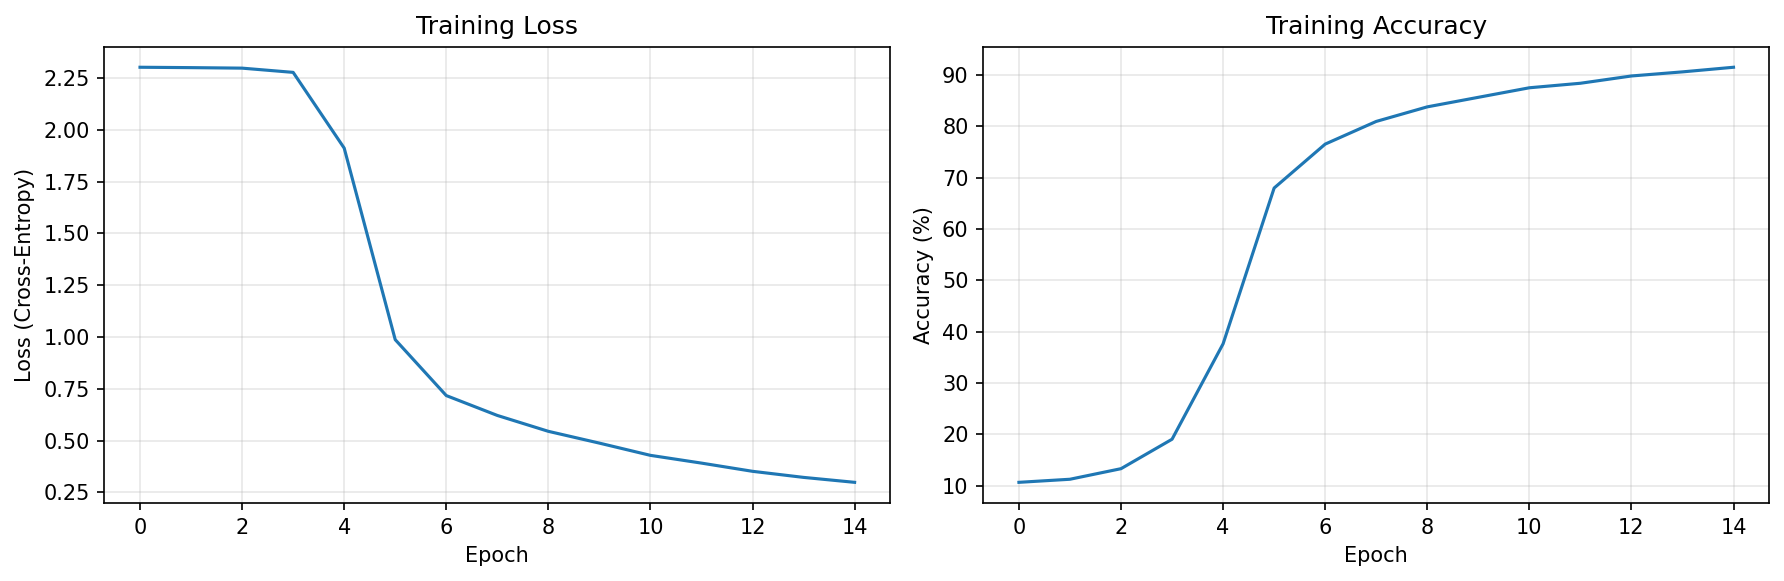
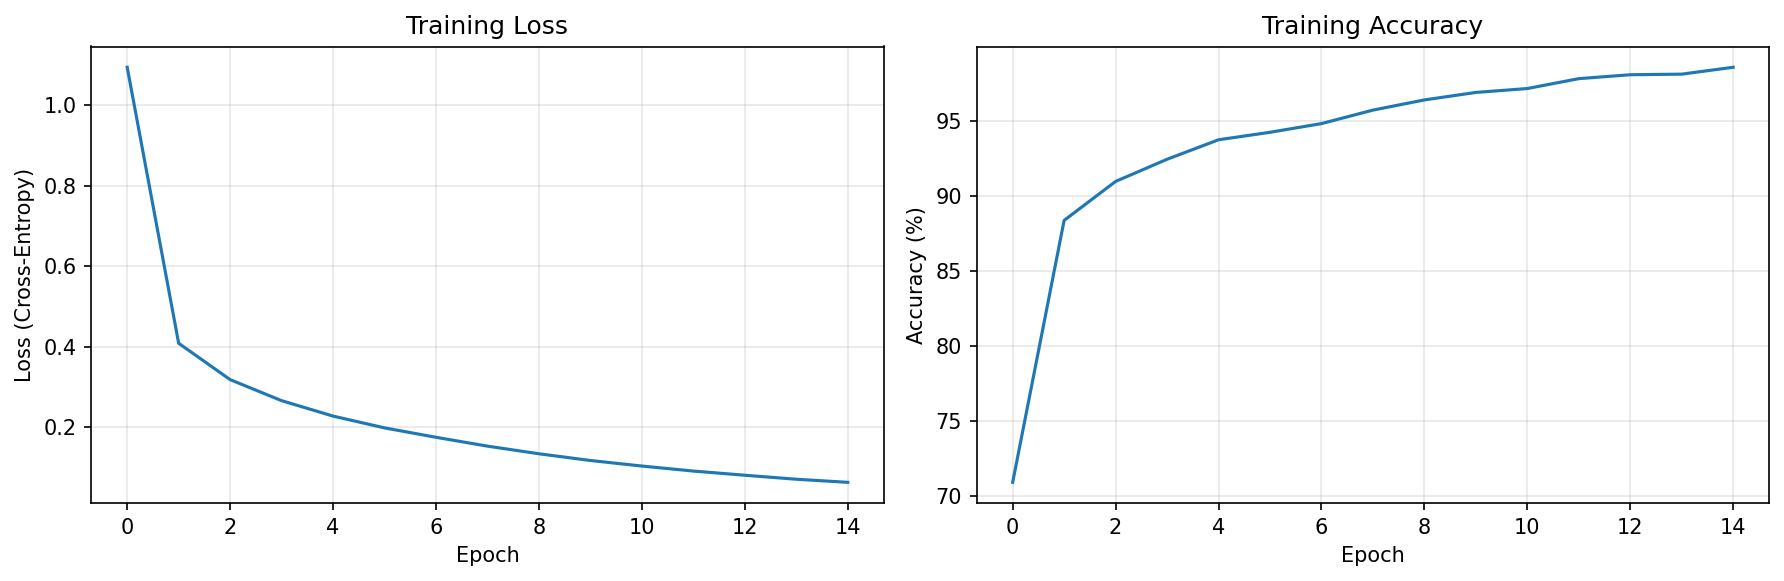
removing neuron and creting neuron vectorization

diff --git a/nn.py b/nn.py
@@ -1,71 +1,6 @@
 import numpy as np 
 import time
 
-class Neuron:
-    """Single neuron with weights, bias, and activation function.
-
-    Detailed explanation:
-    - A neuron computes z = w.x + b where w is weights vector, x is input vector, b is a scalar bias.
-    - The activation function transforms z to produce the neuron's output.
-    - We keep `input`, `z`, and `output` stored on the object so the backward pass can use them.
-
-    Activation functions and their intuition (simple links):
-    - Sigmoid: maps to (0,1). Good for hidden layers. https://en.wikipedia.org/wiki/Sigmoid_function
-    - ReLU: returns 0 for negative inputs and identity for positives; fast learning. https://en.wikipedia.org/wiki/Rectifier_(neural_networks)
-    - Softmax: (Special case handled in Layer class) maps a vector to probabilities summing to 1.
-    """
-
-    def __init__(self, n_inputs, activation='sigmoid'):
-        # Xavier/He initialization for better convergence
-        if activation == 'relu':
-            self.weights = np.random.randn(n_inputs) * np.sqrt(2.0 / n_inputs)
-        else:
-            self.weights = np.random.randn(n_inputs) * np.sqrt(1.0 / n_inputs)
-
-        self.bias = 0
-        self.activation = activation  # activation function name stored as string
-
-        self.input = None  # placeholder to save last input seen by this neuron (used in backprop)
-        self.output = None  # placeholder to save last output of this neuron
-        self.z = None  # placeholder to save last linear combination (w.x + b)
-
-    def activate(self, z):
-        # Apply the chosen activation function to the pre-activation value z.
-        # NOTE: Softmax is a special case applied at the LAYER level, not individual neuron level.
-        # So if self.activation is 'softmax', we pass z through (linear) and let Layer handle it.
-        
-        if self.activation == 'sigmoid':
-            return 1 / (1 + np.exp(-np.clip(z, -500, 500)))
-        elif self.activation == 'tanh':
-            return np.tanh(z)
-        elif self.activation == 'relu':
-            return np.maximum(0, z)
-        elif self.activation == 'softmax':
-            return z  # Return linear z; Layer.forward will calculate the actual softmax probability
-        else:
-            return z
-
-    def activate_derivative(self, z):
-        # Return derivative of the activation function evaluated at z; used in backpropagation.
-        # Note: Softmax derivative is handled specially in NeuralNetwork.backward.
-        if self.activation == 'sigmoid':
-            s = 1 / (1 + np.exp(-np.clip(z, -500, 500)))
-            return s * (1 - s)
-        elif self.activation == 'tanh':
-            return 1 - np.tanh(z) ** 2
-        elif self.activation == 'relu':
-            return (z > 0).astype(float)
-        else:
-            return 1
-
-    def forward(self, inputs):
-        # Compute the neuron's forward pass for a single input vector.
-        self.input = inputs  # save input for gradient computation in backward pass
-        self.z = np.dot(self.weights, inputs) + self.bias  # linear combination w.x + b
-        self.output = self.activate(self.z)  # apply activation function
-        return self.output  # return scalar output for this neuron
-
-
 class Layer:
     """Layer of neurons: container that holds multiple Neuron objects.
 
@@ -75,30 +10,31 @@ class Layer:
     """
 
     def __init__(self, n_inputs, n_neurons, activation='sigmoid'):
-        self.neurons = [Neuron(n_inputs, activation) for _ in range(n_neurons)]
-        self.n_neurons = n_neurons
+        # Xavier/He initialization for better convergence
+        if activation == 'relu':
+            self.weights = np.random.randn(n_inputs, n_neurons) * np.sqrt(2.0 / n_inputs)
+        else:
+            self.weights = np.random.randn(n_inputs, n_neurons) * np.sqrt(1.0 / n_inputs)
+        self.bias = np.zeros((1, n_neurons))
         self.activation = activation
         self.output = None  # will hold the output array after forward pass
 
     def forward(self, inputs):
-        # 1. Calculate individual neuron outputs (or raw z if softmax)
-        raw_outputs = np.array([neuron.forward(inputs) for neuron in self.neurons])
+        # 1. Calculate linear combination (z = X*W + b) and store it
+        z = np.dot(inputs, self.weights) + self.bias
         
-        # 2. Apply Softmax logic if this is the output layer
+        # 2. Apply activation function
         if self.activation == 'softmax':
-            # Collect all 'z' values (linear outputs) from the neurons
-            z_values = np.array([n.z for n in self.neurons])
-            
             # Softmax Formula: e^z_i / sum(e^z_j)
             # Numeric Stability Trick: subtract max(z) to prevent e^z becoming infinite
-            exp_values = np.exp(z_values - np.max(z_values)) 
-            self.output = exp_values / np.sum(exp_values)
-            
-            # CRITICAL: Update the individual neurons with their new softmax probability output
-            for i, neuron in enumerate(self.neurons):
-                neuron.output = self.output[i]
+            exp_values = np.exp(z - np.max(z, axis=-1, keepdims=True))
+            self.output = exp_values / np.sum(exp_values, axis=-1, keepdims=True)
+        elif self.activation == 'relu':
+            self.output = np.maximum(0, z)
+        elif self.activation == 'sigmoid':
+            self.output = 1 / (1 + np.exp(-z))
         else:
-            self.output = raw_outputs
+            self.output = z  # linear activation
 
         return self.output
 
@@ -138,59 +74,54 @@ class NeuralNetwork:
         Calculates gradients in a SINGLE backward pass.
         Merges error calculation and gradient computation for efficiency.
         """
-        # 1. Forward pass to ensure current state is fresh
-        self.forward(inputs)
-        network_grads = [None] * self.n_layers
+        # Forward pass is assumed to have been called already
+        # (it's called in train() before backward())
         
-        # We need to store the errors of the "next" layer (which we process first because we go backwards)
-        # to calculate the errors of the current layer.
-        next_layer_errors = None
+        network_grads = []
+        
+        # Store errors for backpropagation
+        next_layer_error = None
 
         # --- Single Loop: Iterate from Output Layer down to Input Layer ---
         for l in range(self.n_layers - 1, -1, -1):
             layer = self.layers[l]
-            layer_errors = []
 
             # --- A. Calculate Error (Delta) for this layer ---
             if l == self.n_layers - 1:
                 # Output Layer (Softmax + CrossEntropy case)
-                for i, neuron in enumerate(layer.neurons):
-                    error = neuron.output - targets[i]
-                    layer_errors.append(error)
+                # The derivative of softmax + cross-entropy simplifies to: output - target
+                error = layer.output - targets
             else:
-                # Hidden Layer
-                next_layer = self.layers[l+1]
-                for i, neuron in enumerate(layer.neurons):
-                    error = 0.0
-                    # Aggregate error from the next layer (which we already processed)
-                    for j, next_neuron in enumerate(next_layer.neurons):
-                        error += next_layer_errors[j] * next_neuron.weights[i]
-                    
-                    # Multiply by derivative
-                    error *= neuron.activate_derivative(neuron.z)
-                    layer_errors.append(error)
-            
-            # Convert to numpy array for the next iteration to use easily
-            layer_errors = np.array(layer_errors)
+                # Hidden Layer: backpropagate error from next layer
+                next_layer = self.layers[l + 1]
+                error = np.dot(next_layer_error, next_layer.weights.T)
+                
+                # Apply activation derivative
+                if layer.activation == 'relu':
+                    error = error * (layer.output > 0)  # ReLU derivative
+                elif layer.activation == 'sigmoid':
+                    sigmoid_deriv = layer.output * (1 - layer.output)
+                    error = error * sigmoid_deriv
             
             # --- B. Compute Gradients IMMEDIATELY ---
             # Input to this layer is either network input (if l=0) or prev layer output
-            layer_input = inputs if l == 0 else self.layers[l-1].output
+            if l == 0:
+                layer_input = inputs.reshape(1, -1)  # Ensure 2D
+            else:
+                layer_input = self.layers[l-1].output.reshape(1, -1)
             
-            layer_grads = []
-            for i, neuron in enumerate(layer.neurons):
-                # Gradient w.r.t Weight
-                w_grad = layer_errors[i] * layer_input
-                # Gradient w.r.t Bias
-                b_grad = layer_errors[i]
-                
-                layer_grads.append((w_grad, b_grad))
+            # Gradient w.r.t Weight: outer product of input and error
+            # Shape: (n_inputs, 1) @ (1, n_neurons) = (n_inputs, n_neurons)
+            w_grad = np.dot(layer_input.T, error.reshape(1, -1))
             
-            # Store gradients for this layer
-            network_grads[l] = layer_grads
+            # Gradient w.r.t Bias: just the error
+            b_grad = error.reshape(1, -1)
             
-            # Update 'next_layer_errors' to be the current ones, for the next iteration (l-1)
-            next_layer_errors = layer_errors
+            # Store gradients for this layer (insert at beginning to maintain order)
+            network_grads.insert(0, (w_grad, b_grad))
+            
+            # Update error for next iteration (going backwards)
+            next_layer_error = error
 
         return network_grads
 
@@ -199,17 +130,13 @@ class NeuralNetwork:
         Updates weights and biases using the averaged gradients from the batch.
         """
         for l, layer in enumerate(self.layers):
-            for i, neuron in enumerate(layer.neurons):
-                # Get sum of gradients for this neuron
-                sum_w_grad, sum_b_grad = accumulated_grads[l][i]
-                
-                # Average the gradients
-                avg_w_grad = sum_w_grad / batch_size
-                avg_b_grad = sum_b_grad / batch_size
-
-                # Update weights and bias
-                neuron.weights -= learning_rate * avg_w_grad
-                neuron.bias -= learning_rate * avg_b_grad
+            sum_w_grad, sum_b_grad = accumulated_grads[l]
+            # Average the gradients
+            avg_w_grad = sum_w_grad / batch_size
+            avg_b_grad = sum_b_grad / batch_size
+            # Update weights and bias
+            layer.weights -= learning_rate * avg_w_grad
+            layer.bias -= learning_rate * avg_b_grad
 
     def train(self, X, y, epochs=10, learning_rate=0.1, batch_size=32, X_val=None, y_val=None, verbose=True):
         """
@@ -236,35 +163,31 @@ class NeuralNetwork:
                 current_batch_size = len(X_batch) # Handle last batch if smaller
 
                 # Initialize accumulator for gradients for this batch
-                # Structure matches 'network_grads' from backward()
-                # We need zeros of correct shape. 
-                # Helper structure: accumulator[layer][neuron] = [w_grad_sum, b_grad_sum]
-                batch_accumulated_grads = []
-                for layer in self.layers:
-                    layer_acc = []
-                    for neuron in layer.neurons:
-                        layer_acc.append([np.zeros_like(neuron.weights), 0.0])
-                    batch_accumulated_grads.append(layer_acc)
+                batch_accumulated_grads = [
+                    (np.zeros_like(layer.weights), np.zeros_like(layer.bias))
+                    for layer in self.layers
+                ]
 
                 # Process samples in batch
                 for j in range(current_batch_size):
                     inputs = X_batch[j]
                     targets = y_batch[j]
 
+                    # Forward pass
+                    output = self.forward(inputs)
+
                     # 1. Get gradients for single sample
                     sample_grads = self.backward(inputs, targets)
 
                     # 2. Accumulate gradients
                     for l in range(len(self.layers)):
-                        for n in range(len(self.layers[l].neurons)):
-                            w_g, b_g = sample_grads[l][n]
-                            batch_accumulated_grads[l][n][0] += w_g
-                            batch_accumulated_grads[l][n][1] += b_g
+                        w_g, b_g = sample_grads[l]
+                        batch_accumulated_grads[l] = (
+                            batch_accumulated_grads[l][0] + w_g,
+                            batch_accumulated_grads[l][1] + b_g
+                        )
 
-                    # Logging (Forward pass logic for loss tracking)
-                    # Note: We rely on the forward pass inside backward() usually, 
-                    # but we need the output here for stats.
-                    output = self.layers[-1].output 
+                    # Track loss and accuracy
                     epsilon = 1e-9
                     loss = -np.sum(targets * np.log(output + epsilon))
                     total_loss += loss

diff --git a/mnist.py b/mnist.py
@@ -94,7 +94,7 @@ def main():
     print("=" * 70)
 
     X_train, y_train, X_test, y_test, y_test_labels = load_and_preprocess_mnist(
-        n_train=5000, n_test=1000
+        n_train=50000, n_test=10000
     )
 
     print("\nCreating Neural Network...")
@@ -104,7 +104,7 @@ def main():
         activations=['relu', 'relu', 'softmax']
     )
 
-    total_params = sum(len(n.weights) + 1 for l in nn.layers for n in l.neurons)
+    total_params = sum(l.weights.size + l.bias.size for l in nn.layers)
     print(f"Total parameters: {total_params:,}")
 
     print("\n" + "=" * 70)
